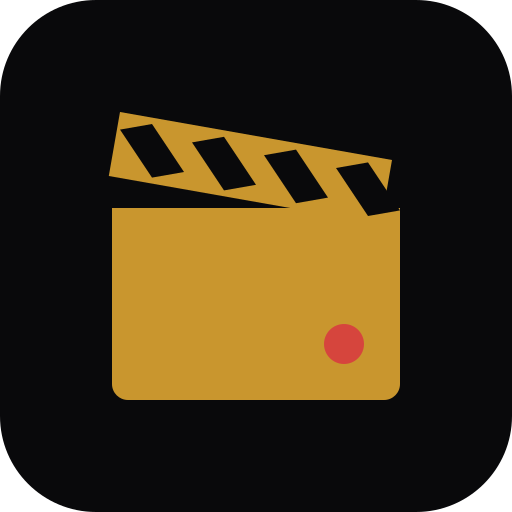
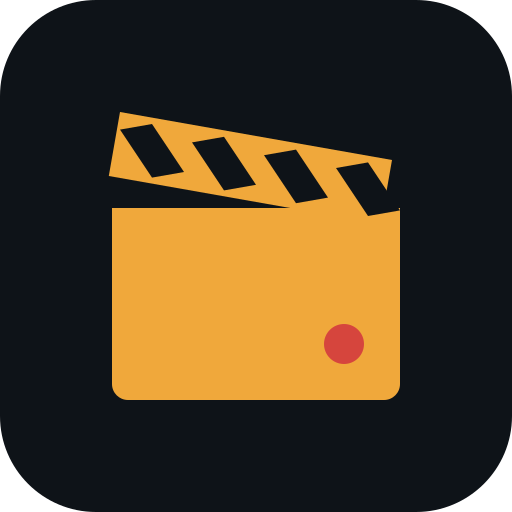
color changes

Changed region(s): [[0.1875, 0.2188, 0.7812, 0.7812]]

diff --git a/tailwind.config.js b/tailwind.config.js
@@ -15,25 +15,26 @@ export default {
         heading: ['Oswald', 'ui-sans-serif', 'system-ui', 'sans-serif'],
       },
       colors: {
-        // Near-black stage — page and section backgrounds
+        // "Blue hour" palette (2026-10-05): the colours of the hero still. A deep
+        // slate-blue dusk stage instead of near-black — page and section backgrounds.
         ink: {
-          400: '#8A8A94', // meta text on dark surfaces (AA on ink-800/900/950)
-          500: '#55555E',
-          700: '#26262D',
-          800: '#1A1A1F',
-          900: '#101013',
-          950: '#09090B',
+          400: '#8694A1', // meta text on dark surfaces (AA on ink-800/900/950)
+          500: '#55697A', // outline-button borders
+          700: '#2E3B47', // hairlines, dividers
+          800: '#1B242D', // card surface
+          900: '#141B22', // alternating sections, footer
+          950: '#0E1318', // page
         },
-        // Warm off-whites — text on the dark stage (never pure white)
+        // Fog whites — text on the dark stage (never pure white)
         bone: {
-          100: '#F2F0EA',
-          400: '#A6A39B',
+          100: '#EEF1F4',
+          400: '#A8B2BD',
         },
-        // Gold — the single accent: CTAs, kickers, active states
+        // Headlight amber — the single accent: CTAs, kickers, active states
         gold: {
-          400: '#E3B453',
-          500: '#C9962E',
-          600: '#A87A1F',
+          400: '#F7BE63',
+          500: '#F0A83B',
+          600: '#C9862A',
         },
         // "REC" red — recording-dot motif and form errors only
         signal: {
@@ -47,7 +48,7 @@ export default {
       backgroundImage: {
         // Warm gold glow in the top-right corner; keeps the hero and CTA banner from ever reading flat black
         'hero-vignette':
-          'radial-gradient(120% 90% at 85% 15%, rgba(201,150,46,0.16) 0%, rgba(201,150,46,0.04) 40%, transparent 70%)',
+          'radial-gradient(120% 90% at 85% 15%, rgba(240,168,59,0.18) 0%, rgba(240,168,59,0.05) 40%, transparent 70%)',
         // Equipment photos are opaque white manufacturer cutouts, so they sit in a deliberate white "product well"
         'product-well': 'radial-gradient(circle at 50% 40%, #ffffff 0%, #f4f4f4 100%)',
       },

diff --git a/nuxt.config.ts b/nuxt.config.ts
@@ -70,7 +70,7 @@ export default defineNuxtConfig({
         { rel: 'manifest', href: '/site.webmanifest' },
       ],
       meta: [
-        { name: 'theme-color', content: '#09090B' },
+        { name: 'theme-color', content: '#0E1318' },
         // Google Search Console ownership proof — set NUXT_PUBLIC_GOOGLE_SITE_VERIFICATION
         // on Railway to the content= token GSC hands out, redeploy, done.
         ...(process.env.NUXT_PUBLIC_GOOGLE_SITE_VERIFICATION
